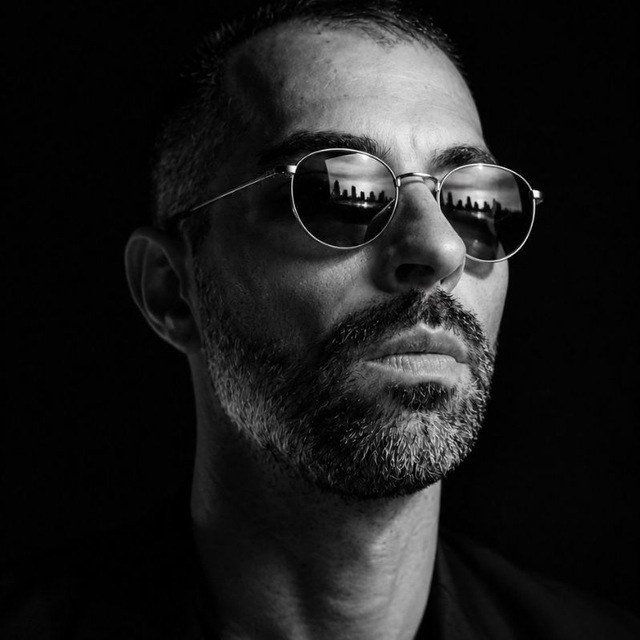
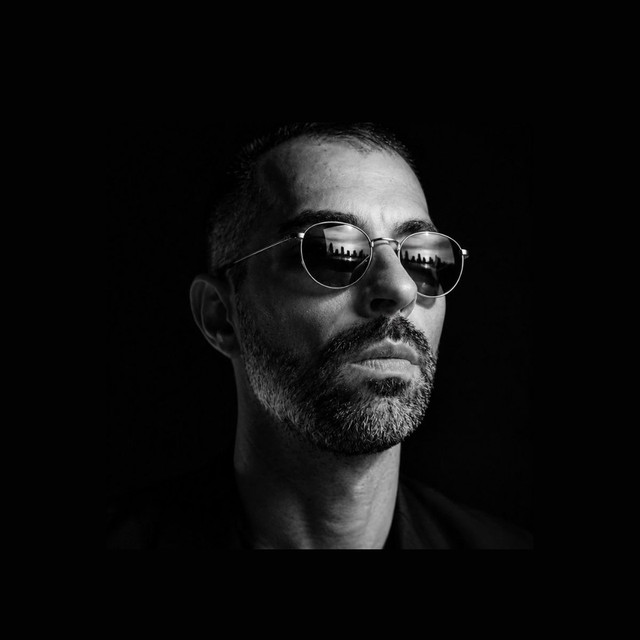
Autorenfoto besser zugeschnitten

diff --git a/css/style.css b/css/style.css
@@ -495,26 +495,45 @@ a:hover { color: #fff; }
 
 .buy-card .btn { width: 100%; }
 
-/* Author teaser */
+/* Author teaser + author page photo: always a circle, never an oval.
+   Global `img { height: auto }` must not stretch these. The <picture>
+   is the square frame; the image fills it with object-fit. */
 .author-teaser {
   display: flex;
   gap: 1.25rem;
   align-items: center;
-  max-width: 40rem;
+  max-width: 44rem;
+}
+
+.author-teaser picture {
+  flex: 0 0 auto;
+  width: 150px;
+  height: 150px;
+  aspect-ratio: 1 / 1;
+  border-radius: 50%;
+  overflow: hidden;
+  background: #111;
+  box-shadow: 0 0 0 1px rgba(232, 230, 227, 0.18);
+}
+
+@media (min-width: 760px) {
+  .author-teaser { gap: 1.75rem; }
+  .author-teaser picture {
+    width: 200px;
+    height: 200px;
+  }
 }
 
 .author-teaser img,
 .author-photo img {
-  border-radius: 50%;
+  width: 100%;
+  height: 100%;
+  aspect-ratio: 1 / 1;
   object-fit: cover;
+  object-position: center center;
+  border-radius: 50%;
+  display: block;
   background: #111;
-}
-
-.author-teaser img {
-  width: 88px;
-  height: 88px;
-  flex-shrink: 0;
-  box-shadow: 0 0 0 1px rgba(232, 230, 227, 0.15);
 }
 
 .author-teaser p { margin: 0 0 0.45rem; }
@@ -646,11 +665,19 @@ a:hover { color: #fff; }
   width: min(280px, 70vw);
 }
 
+.author-photo picture {
+  display: block;
+  width: 100%;
+  aspect-ratio: 1 / 1;
+  border-radius: 50%;
+  overflow: hidden;
+  background: #111;
+  box-shadow: 0 20px 50px rgba(0, 0, 0, 0.45);
+}
+
 .author-photo img {
   width: 100%;
-  height: auto;
-  aspect-ratio: 1;
-  box-shadow: 0 20px 50px rgba(0, 0, 0, 0.45);
+  height: 100%;
 }
 
 .author-page .lead {

diff --git a/index.html b/index.html
@@ -139,8 +139,8 @@
         <h2 id="autor-teaser-title">Der Autor</h2>
         <div class="author-teaser">
           <picture>
-            <source type="image/webp" srcset="img/autor-160.webp 160w, img/autor-320.webp 320w" sizes="88px">
-            <img src="img/autor-320.jpg" srcset="img/autor-160.jpg 160w, img/autor-320.jpg 320w" sizes="88px" width="88" height="88" alt="Jonas Reiter">
+            <source type="image/webp" srcset="img/autor-160.webp 160w, img/autor-320.webp 320w, img/autor-640.webp 640w" sizes="(min-width: 760px) 200px, 150px">
+            <img src="img/autor-320.jpg" srcset="img/autor-160.jpg 160w, img/autor-320.jpg 320w, img/autor-640.jpg 640w" sizes="(min-width: 760px) 200px, 150px" width="200" height="200" alt="Jonas Reiter">
           </picture>
           <div>
             <p>Jonas Reiter schreibt Thriller über die dunklen Seiten der digitalen Welt.</p>
